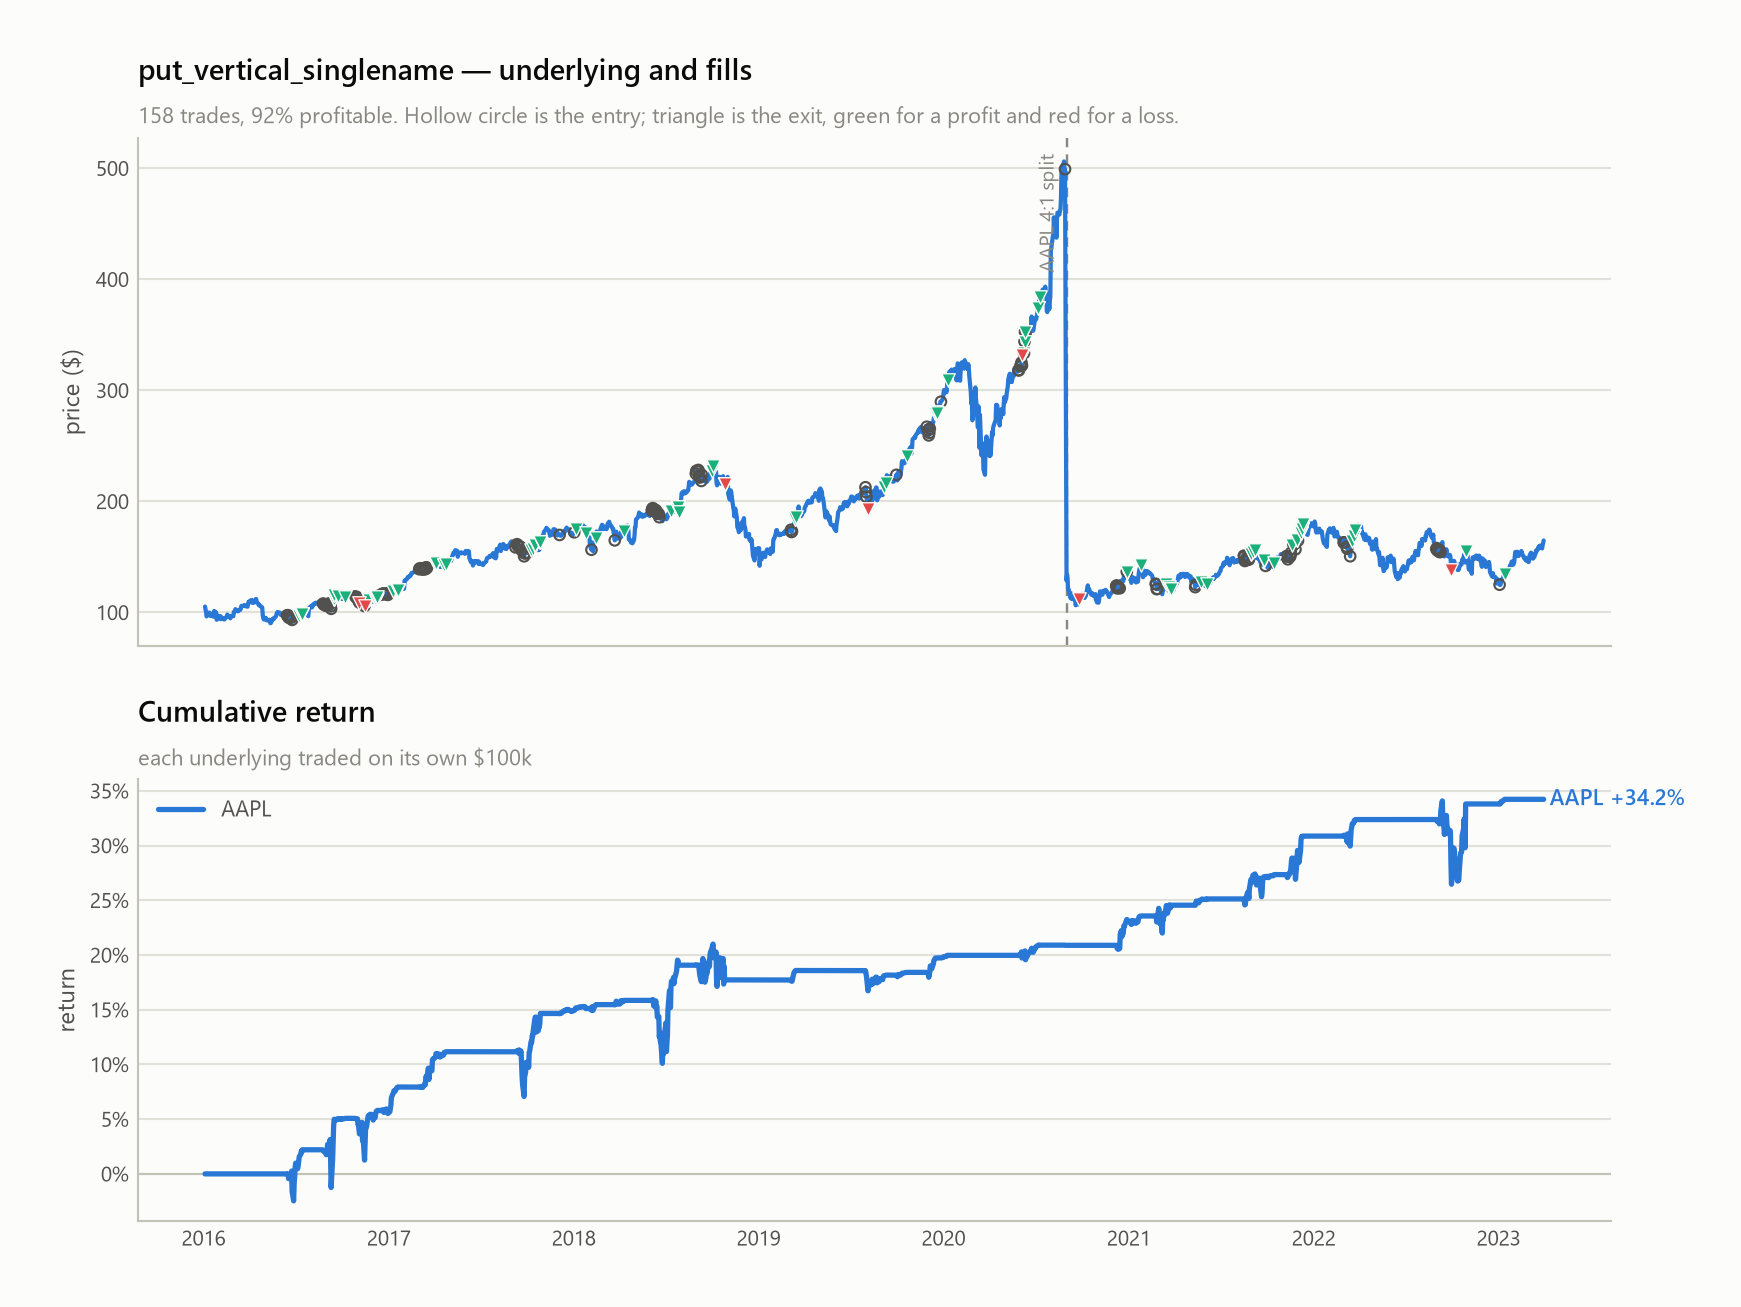
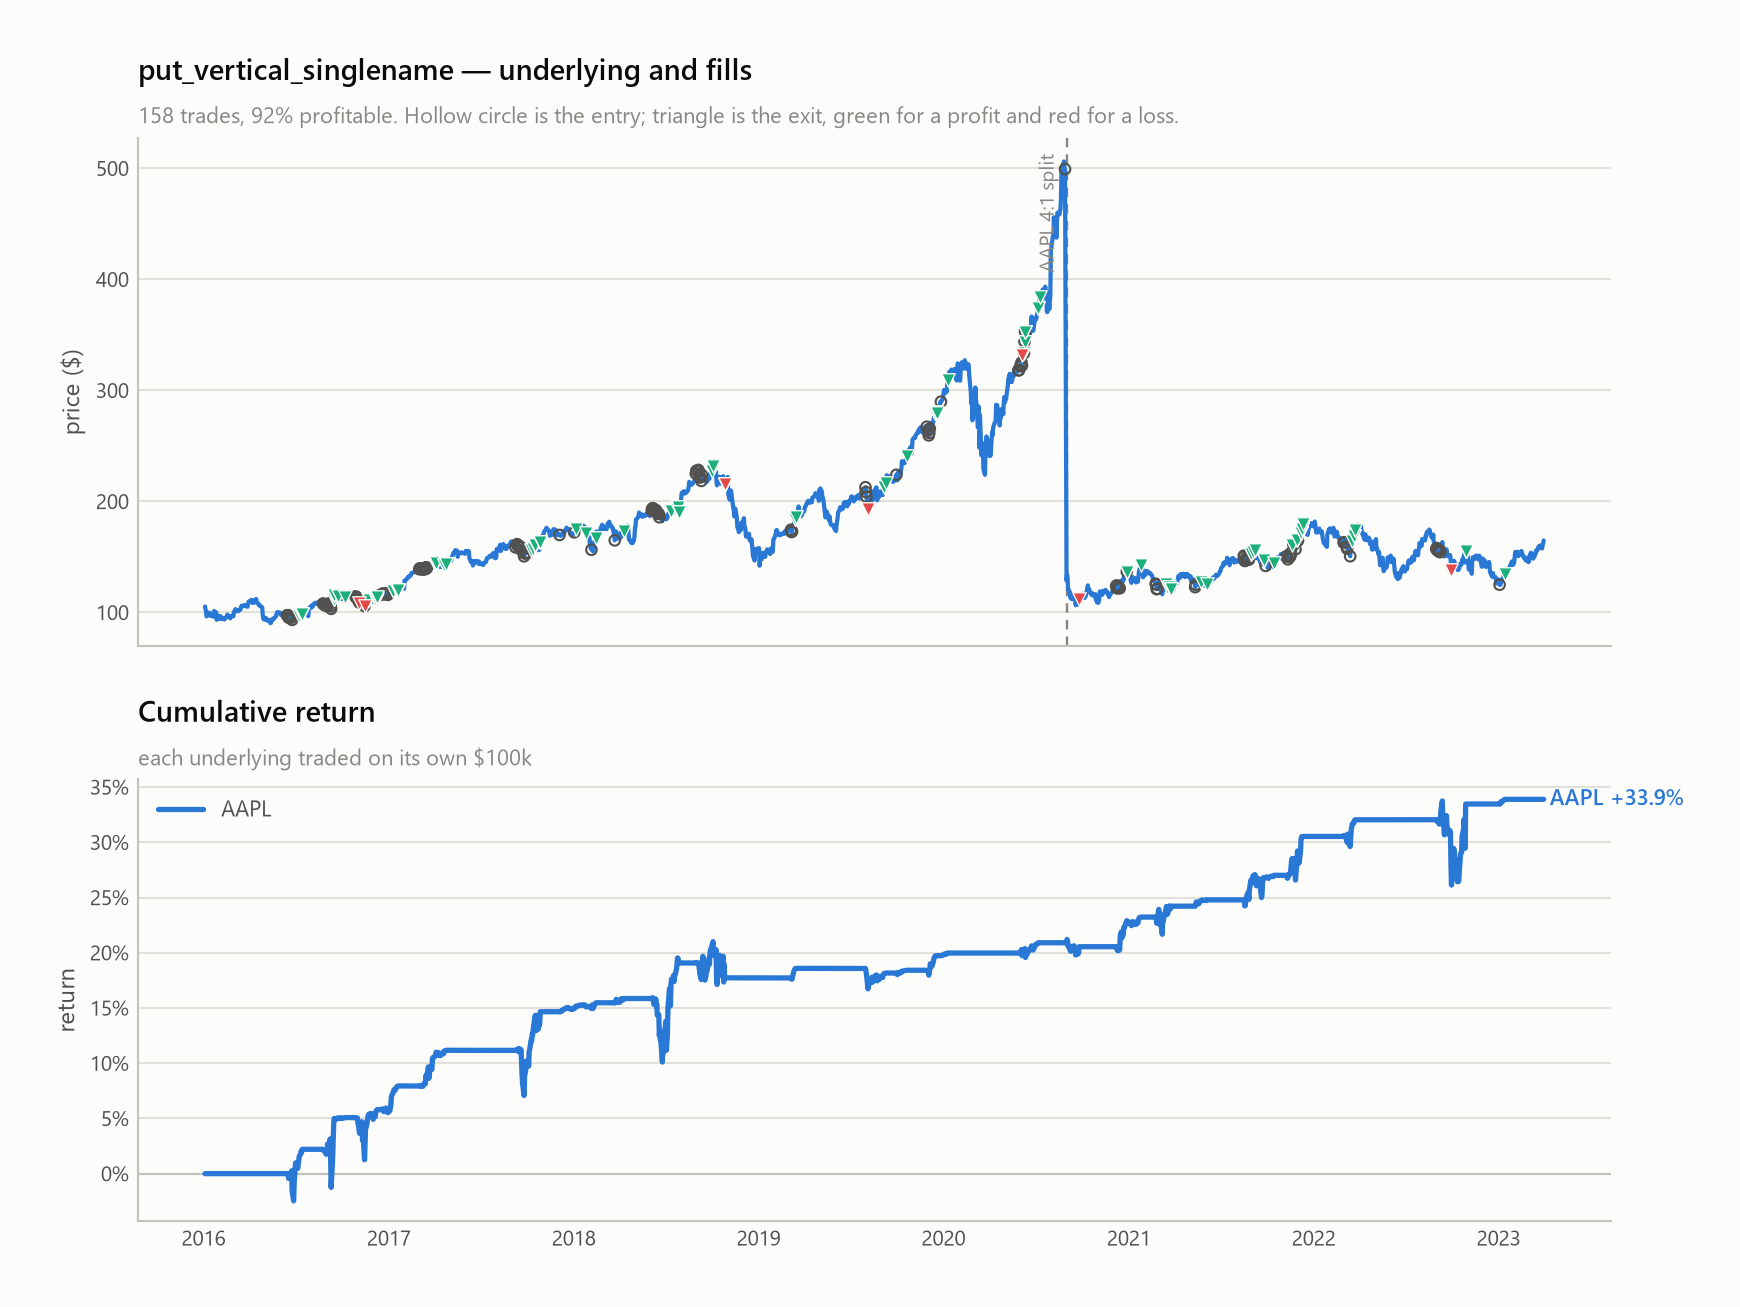
fix(engine): adjust open positions through stock splits instead of freezing the mark

diff --git a/tests/test_engine.py b/tests/test_engine.py
@@ -118,3 +118,41 @@ def test_backtest_combo_blends_returns_not_capital(monkeypatch):
     out = runmod.backtest_combo([a, b], weights=[0.5, 0.5], equity0=100_000.0)
     assert seen == [100_000.0, 100_000.0]  # each sleeve keeps full capital, so contract rounding is unchanged
     assert out["summary"]["total_trades"] == 20 and out["combined"]["total_return"] > 0
+
+
+def test_split_adjustment_preserves_position_value():
+    """A 4:1 split must leave the position worth the same: four contracts at a quarter the strike."""
+    import datetime as dt
+
+    from synthetix_alpha.strategy.engine import OpenLeg, Position, _apply_split
+    legs = [OpenLeg("AAPL201016P00435000", "put", -1, 1, 435.0, dt.date(2020, 10, 16), 11.095),
+            OpenLeg("AAPL201016P00395000", "put", 1, 1, 395.0, dt.date(2020, 10, 16), 4.820)]
+    pos = Position(legs=legs, contracts=1, entry_date=dt.date(2020, 8, 28),
+                   entry_value=-6.275, expiration=dt.date(2020, 10, 16))
+    before = pos.value() * pos.contracts
+    assert _apply_split(pos, 4.0)
+    assert pos.contracts == 4
+    assert pos.legs[0].strike == 435.0 / 4 and pos.legs[1].strike == 395.0 / 4
+    assert pos.legs[0].symbol == "AAPL201016P00108750"
+    assert pos.legs[1].symbol == "AAPL201016P00098750"
+    assert abs(pos.value() * pos.contracts - before) < 1e-9, "a split must not create or destroy value"
+    assert abs(pos.entry_value - (-6.275 / 4)) < 1e-9, "per-share entry must scale with the strike"
+
+
+def test_split_adjustment_refuses_fractional_ratios():
+    """A 3:2 split cannot keep contract counts whole, so it must be declined rather than silently rounded."""
+    import datetime as dt
+
+    from synthetix_alpha.strategy.engine import OpenLeg, Position, _apply_split
+    pos = Position(legs=[OpenLeg("X201016P00100000", "put", -1, 1, 100.0, dt.date(2020, 10, 16), 1.0)],
+                   contracts=1, entry_date=dt.date(2020, 8, 28), entry_value=-1.0,
+                   expiration=dt.date(2020, 10, 16))
+    assert not _apply_split(pos, 1.5)
+    assert pos.contracts == 1 and pos.legs[0].strike == 100.0
+
+
+def test_engine_data_exposes_split_dates():
+    from synthetix_alpha.strategy.data import EngineData
+    assert EngineData._load_splits("SPY") == {}, "SPY has never split"
+    aapl = EngineData._load_splits("AAPL")
+    assert aapl.get(__import__("datetime").date(2020, 8, 31)) == 4.0

diff --git a/synthetix_alpha/strategy/engine.py b/synthetix_alpha/strategy/engine.py
@@ -74,6 +74,32 @@ def _mark(pos: Position, chain: Optional[pd.DataFrame], spot: float, date: dt.da
                 leg.mark = mid
 
 
+def _apply_split(pos: Position, ratio: float) -> bool:
+    """Adjust an open position through a stock split, the way OCC does it.
+
+    A 4:1 split turns one 435-strike contract into four at 108.75. Value is preserved, so contracts
+    multiply by the ratio while strike, mark and the per-share entry price all divide by it. Costs are
+    already in dollars and are left alone. Without this the old OCC symbols disappear from the chain and
+    the position is marked at a stale pre-split price for the rest of its life.
+    """
+    from synthetix_alpha.data.occ import build_occ_symbol
+
+    n = int(round(ratio))
+    if abs(ratio - n) > 1e-9 or n < 2:
+        return False  # reverse or fractional splits would not keep contract counts whole
+    for leg in pos.legs:
+        if leg.type == "stock":
+            leg.strike = 0.0
+        else:
+            leg.strike /= ratio
+            leg.symbol = build_occ_symbol(leg.symbol[:len(leg.symbol) - 15], leg.expiration, leg.type, leg.strike)
+        if leg.mark == leg.mark:
+            leg.mark /= ratio
+    pos.entry_value /= ratio
+    pos.contracts *= n
+    return True
+
+
 def _pick_expiration(chain: pd.DataFrame, spec: Spec, offset: int) -> Optional[object]:
     c = chain[chain["dte"].between(spec.dte_min + offset, spec.dte_max + offset)]
     if c.empty:
@@ -154,7 +180,10 @@ def run(spec: Spec, data: EngineData, equity0: float = 100_000.0) -> Result:
     cash, positions, trades, curve, last_entry = equity0, [], [], {}, None
     for date in data.dates:
         chain, spot = data.chain(date), float(data.features.at[date, "spot"])
+        ratio = getattr(data, "splits", {}).get(date)
         for pos in list(positions):
+            if ratio:
+                _apply_split(pos, ratio)
             _mark(pos, chain, spot, date)
             pnl = (pos.value() - pos.entry_value) * MULT * pos.contracts
             premium = abs(pos.entry_value) * MULT * pos.contracts

diff --git a/synthetix_alpha/strategy/data.py b/synthetix_alpha/strategy/data.py
@@ -174,6 +174,17 @@ class EngineData:
         self.underlying, self.features = underlying, feats
         self._by_date = {d: g.set_index("symbol") for d, g in chains.groupby(level=0, sort=True)}
         self.dates = sorted(self._by_date)
+        self.splits = self._load_splits(underlying)
+
+    @staticmethod
+    def _load_splits(underlying: str) -> dict:
+        """Effective date -> ratio. Chains are not split adjusted, so open positions must be adjusted
+        on these dates or their contracts vanish and the mark silently freezes."""
+        from synthetix_alpha.data import yf
+        try:
+            return {d: float(r) for d, r in yf.splits(underlying).items() if float(r) > 0}
+        except Exception:
+            return {}
 
     @classmethod
     def load(cls, underlying: str, dte_max: int = 120, start: Optional[dt.date] = None, end: Optional[dt.date] = None,

diff --git a/docs/research.md b/docs/research.md
@@ -1067,3 +1067,39 @@ wide spreads. That anti-correlation is plausible rather than accidental, since t
 But plausible is not demonstrated. Establishing it needs repeated window pairs across many days, which requires
 Bitquery archive access, a Flipside or Dune export, or weeks of forward collection. Until then this is an open
 question, not a closed one.
+
+## Stock splits were silently freezing marks
+
+Kaggle chains are not split adjusted, and the engine did nothing about it. `yf.spans_split` existed for exactly
+this purpose and was never called from anywhere in the engine.
+
+The failure was quiet rather than loud. `_mark` looks a contract up in the day's chain; after a split the old
+strikes are gone, and with no explicit fallback the leg simply keeps its last mark. An AAPL spread opened
+2020-08-28 at strikes 435/395 held through the 4:1 split on 2020-08-31, and from that day was valued at a
+pre-split price for the remaining month of its life, closing for a reported **-$17**.
+
+Positions are now adjusted the way OCC adjusts them: contracts multiply by the ratio, while strike, mark and the
+per-share entry value divide by it, and the OCC symbol is rebuilt. The adjusted contracts do exist in the data
+(`AAPL201016P00108750` quotes at 3.18 on the exit date), so marking resumes normally. The same trade now runs as
+four contracts at 108.75/98.75 and closes at **-$357**, which is what a 12% split-adjusted fall in the underlying
+actually cost.
+
+Six trades out of 260 spanned a split. Isolating the fix with identical specs on both sides:
+
+| strategy | Sharpe, splits ignored | Sharpe, adjusted | delta |
+|---|---|---|---|
+| put_vertical_singlename | 0.817 | 0.807 | −0.010 |
+| put_vertical_singlename_wide | 0.756 | **0.853** | **+0.098** |
+| the other nine specs | unchanged | unchanged | 0.000 |
+
+The correction runs in both directions, which is worth noting: stale marks were understating a loss on AAPL and
+overstating losses on NVDA. Only single names are affected at all, since SPY and QQQ have never split.
+
+One attribution error is worth recording. The deployed single-name sleeve moved from 0.900 to 0.807 across this
+work, and the first reading of that blamed the split fix. It did not: 0.900 predated the switch to daily entry with
+twelve slots, and re-benchmarking with identical specs on both sides shows the split fix accounts for −0.010 of it.
+The remaining −0.083 is the deployment change. Comparing against a number measured under different settings is how
+a small correction gets mistaken for a large one.
+
+**Deployed portfolio, re-benchmarked:** Sharpe 0.870, max drawdown −5.03%, total return +31.95% over 453 trades.
+
